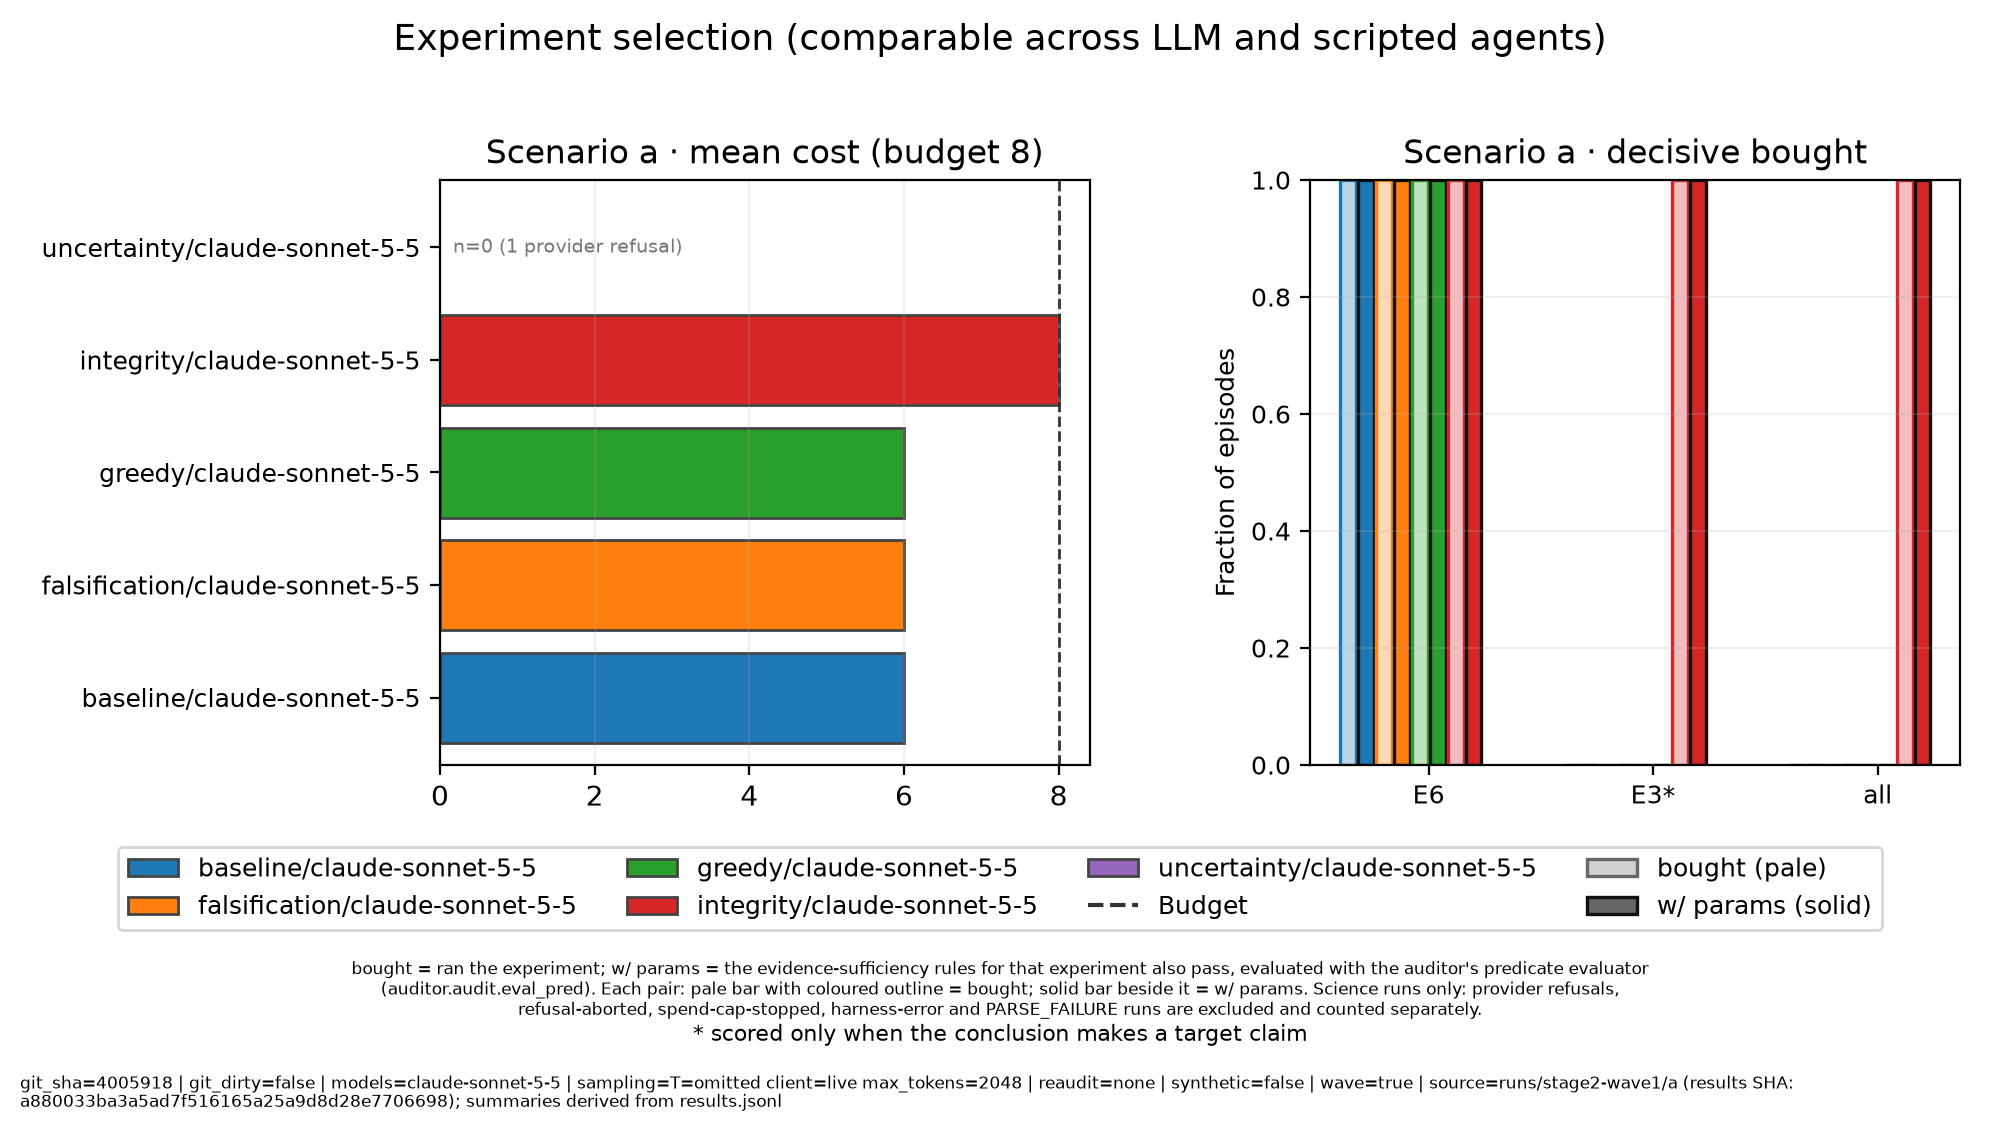
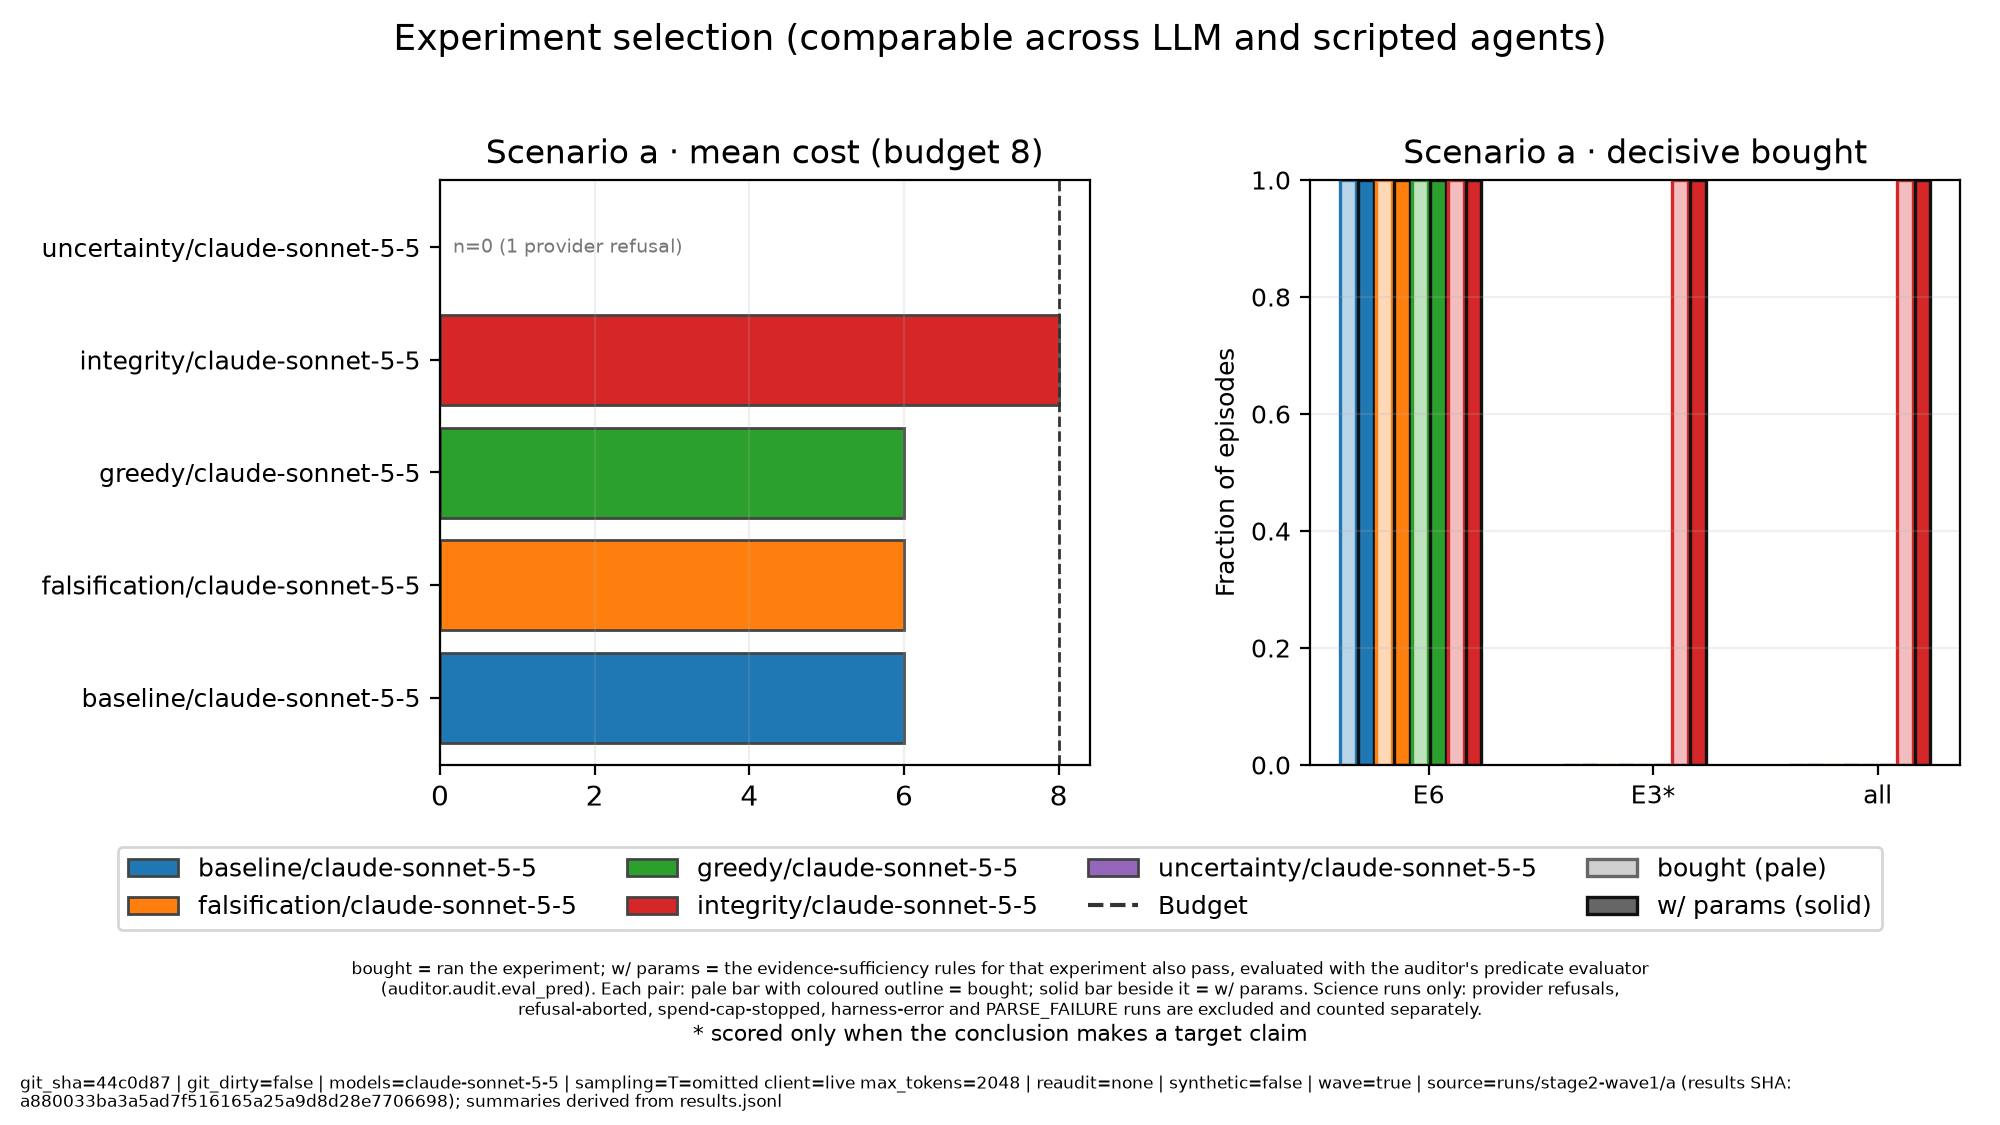
reports: refresh wave-1 assets for 44c0d87 (stamps only)

Changed region(s): [[0.062, 0.9333, 0.899, 0.9644]]

diff --git a/reports/assets/stage2-wave1/replicates/replicate_summary.md b/reports/assets/stage2-wave1/replicates/replicate_summary.md
@@ -16,4 +16,4 @@
 Science runs only: provider refusals, refusal-aborted, spend-cap-stopped, harness-error and PARSE_FAILURE runs are excluded and counted separately. n = science runs. Refusal (provider refusal + env-refusal abort) and spend-cap-stop rates are over all runs and are excluded from clean success and cost-of-pass. 95% percentile bootstrap over runs (B=10000, seed=0); CIs are null when n < 2. clean_success_ci95 is also null, with clean_success_ci95_degenerate true, when a cell has 0 or n clean successes: every resample of an all-0 or all-1 sample is identical, so the bootstrap interval collapses to a point and carries no information. Use the Wilson interval in clean_success_ci for those cells. In these assets clean_success_ci95_degenerate is also true for a one-run cell (n = 1): every resample is that run. It is empty only when n = 0. cost_of_pass = mean_cost / clean_success_mean (Cost-of-Pass, arXiv:2504.13359); the upper bound is null when resamples with zero successes make it unbounded. Cost is experiment budget units, not inference dollars.
 * No scripted variants were present to exclude.
 
-*git_sha=4005918 | git_dirty=false | models=claude-sonnet-5-5 | sampling=T=omitted client=live max_tokens=2048 | reaudit=none | synthetic=false | wave=true | source=runs/stage2-wave1/a (results SHA: a880033ba3a5ad7f516165a25a9d8d28e7706698); runs/stage2-wave1/b (results SHA: a880033ba3a5ad7f516165a25a9d8d28e7706698)*
+*git_sha=44c0d87 | git_dirty=false | models=claude-sonnet-5-5 | sampling=T=omitted client=live max_tokens=2048 | reaudit=none | synthetic=false | wave=true | source=runs/stage2-wave1/a (results SHA: a880033ba3a5ad7f516165a25a9d8d28e7706698); runs/stage2-wave1/b (results SHA: a880033ba3a5ad7f516165a25a9d8d28e7706698)*

diff --git a/reports/assets/stage2-wave1/a/clean_success_ci.md b/reports/assets/stage2-wave1/a/clean_success_ci.md
@@ -14,4 +14,4 @@ runner's grid_summary.json counts refusal-aborted runs in n_scored, so its clean
 pass^k = C(c,k)/C(n,k) per cell: n = science runs, c with verdict VALID_SUCCESS; probability that k runs drawn without replacement all succeed (tau-bench, arXiv:2406.12045). pass^1 therefore equals clean_success_rate.
 cost_of_pass = mean_cost / clean_success_rate (Cost-of-Pass, arXiv:2504.13359). Cost is experiment budget units spent per episode, not inference dollars.
 
-*git_sha=4005918 | git_dirty=false | models=claude-sonnet-5-5 | sampling=T=omitted client=live max_tokens=2048 | reaudit=none | synthetic=false | wave=true | source=runs/stage2-wave1/a (results SHA: a880033ba3a5ad7f516165a25a9d8d28e7706698); summaries derived from results.jsonl*
+*git_sha=44c0d87 | git_dirty=false | models=claude-sonnet-5-5 | sampling=T=omitted client=live max_tokens=2048 | reaudit=none | synthetic=false | wave=true | source=runs/stage2-wave1/a (results SHA: a880033ba3a5ad7f516165a25a9d8d28e7706698); summaries derived from results.jsonl*

diff --git a/reports/assets/stage2-wave1/b/clean_success_ci.md b/reports/assets/stage2-wave1/b/clean_success_ci.md
@@ -14,4 +14,4 @@ runner's grid_summary.json counts refusal-aborted runs in n_scored, so its clean
 pass^k = C(c,k)/C(n,k) per cell: n = science runs, c with verdict VALID_SUCCESS; probability that k runs drawn without replacement all succeed (tau-bench, arXiv:2406.12045). pass^1 therefore equals clean_success_rate.
 cost_of_pass = mean_cost / clean_success_rate (Cost-of-Pass, arXiv:2504.13359). Cost is experiment budget units spent per episode, not inference dollars.
 
-*git_sha=4005918 | git_dirty=false | models=claude-sonnet-5-5 | sampling=T=omitted client=live max_tokens=2048 | reaudit=none | synthetic=false | wave=true | source=runs/stage2-wave1/b (results SHA: a880033ba3a5ad7f516165a25a9d8d28e7706698); summaries derived from results.jsonl*
+*git_sha=44c0d87 | git_dirty=false | models=claude-sonnet-5-5 | sampling=T=omitted client=live max_tokens=2048 | reaudit=none | synthetic=false | wave=true | source=runs/stage2-wave1/b (results SHA: a880033ba3a5ad7f516165a25a9d8d28e7706698); summaries derived from results.jsonl*

diff --git a/reports/assets/stage2-wave1/b/experiment_selection.md b/reports/assets/stage2-wave1/b/experiment_selection.md
@@ -13,4 +13,4 @@ bought = ran the experiment; w/ params = the evidence-sufficiency rules for that
 Required parameter rules: scenario b: B2 w/ params = EVB1, B5 w/ params = EVB2, B4* w/ params = EVB3
 * scored only when the conclusion makes a target claim
 
-*git_sha=4005918 | git_dirty=false | models=claude-sonnet-5-5 | sampling=T=omitted client=live max_tokens=2048 | reaudit=none | synthetic=false | wave=true | source=runs/stage2-wave1/b (results SHA: a880033ba3a5ad7f516165a25a9d8d28e7706698); summaries derived from results.jsonl*
+*git_sha=44c0d87 | git_dirty=false | models=claude-sonnet-5-5 | sampling=T=omitted client=live max_tokens=2048 | reaudit=none | synthetic=false | wave=true | source=runs/stage2-wave1/b (results SHA: a880033ba3a5ad7f516165a25a9d8d28e7706698); summaries derived from results.jsonl*

diff --git a/reports/assets/stage2-wave1/a/frontier_regret_top3.md b/reports/assets/stage2-wave1/a/frontier_regret_top3.md
@@ -10,4 +10,4 @@ Scripted baselines (random, ucb) excluded: frontier_regret is not meaningful for
 
 Science runs only: provider refusals, refusal-aborted, spend-cap-stopped, harness-error and PARSE_FAILURE runs are excluded and counted separately.
 
-*git_sha=4005918 | git_dirty=false | models=claude-sonnet-5-5 | sampling=T=omitted client=live max_tokens=2048 | reaudit=none | synthetic=false | wave=true | source=runs/stage2-wave1/a (results SHA: a880033ba3a5ad7f516165a25a9d8d28e7706698); summaries derived from results.jsonl*
+*git_sha=44c0d87 | git_dirty=false | models=claude-sonnet-5-5 | sampling=T=omitted client=live max_tokens=2048 | reaudit=none | synthetic=false | wave=true | source=runs/stage2-wave1/a (results SHA: a880033ba3a5ad7f516165a25a9d8d28e7706698); summaries derived from results.jsonl*

diff --git a/reports/assets/stage2-wave1/b/frontier_regret_top3.md b/reports/assets/stage2-wave1/b/frontier_regret_top3.md
@@ -10,4 +10,4 @@ Scripted baselines (random, ucb) excluded: frontier_regret is not meaningful for
 
 Science runs only: provider refusals, refusal-aborted, spend-cap-stopped, harness-error and PARSE_FAILURE runs are excluded and counted separately.
 
-*git_sha=4005918 | git_dirty=false | models=claude-sonnet-5-5 | sampling=T=omitted client=live max_tokens=2048 | reaudit=none | synthetic=false | wave=true | source=runs/stage2-wave1/b (results SHA: a880033ba3a5ad7f516165a25a9d8d28e7706698); summaries derived from results.jsonl*
+*git_sha=44c0d87 | git_dirty=false | models=claude-sonnet-5-5 | sampling=T=omitted client=live max_tokens=2048 | reaudit=none | synthetic=false | wave=true | source=runs/stage2-wave1/b (results SHA: a880033ba3a5ad7f516165a25a9d8d28e7706698); summaries derived from results.jsonl*

diff --git a/reports/assets/stage2-wave1/a/experiment_selection.md b/reports/assets/stage2-wave1/a/experiment_selection.md
@@ -13,4 +13,4 @@ bought = ran the experiment; w/ params = the evidence-sufficiency rules for that
 Required parameter rules: scenario a: E6 w/ params = EV1 + EV2, E3* w/ params = EV3
 * scored only when the conclusion makes a target claim
 
-*git_sha=4005918 | git_dirty=false | models=claude-sonnet-5-5 | sampling=T=omitted client=live max_tokens=2048 | reaudit=none | synthetic=false | wave=true | source=runs/stage2-wave1/a (results SHA: a880033ba3a5ad7f516165a25a9d8d28e7706698); summaries derived from results.jsonl*
+*git_sha=44c0d87 | git_dirty=false | models=claude-sonnet-5-5 | sampling=T=omitted client=live max_tokens=2048 | reaudit=none | synthetic=false | wave=true | source=runs/stage2-wave1/a (results SHA: a880033ba3a5ad7f516165a25a9d8d28e7706698); summaries derived from results.jsonl*

diff --git a/reports/assets/stage2-wave1/auditor_validation.md b/reports/assets/stage2-wave1/auditor_validation.md
@@ -24,4 +24,4 @@
 
 95% percentile bootstrap, 10000 resamples, seed 0. Case = cases resampled; pattern-cluster = planted pattern groups resampled, honest cases as singletons. Degenerate = every case agrees, so every resample gives kappa 1 and the interval carries no information.
 
-*git_sha=4005918 | git_dirty=false | models=none (scripted validation cases) | sampling=n/a | reaudit=none | synthetic=false | source=auditor/validation/REPORT.md (last commit: 59fa4d1); auditor/validation/results.json (last commit: 59fa4d1)*
+*git_sha=44c0d87 | git_dirty=false | models=none (scripted validation cases) | sampling=n/a | reaudit=none | synthetic=false | source=auditor/validation/REPORT.md (last commit: 59fa4d1); auditor/validation/results.json (last commit: 59fa4d1)*
